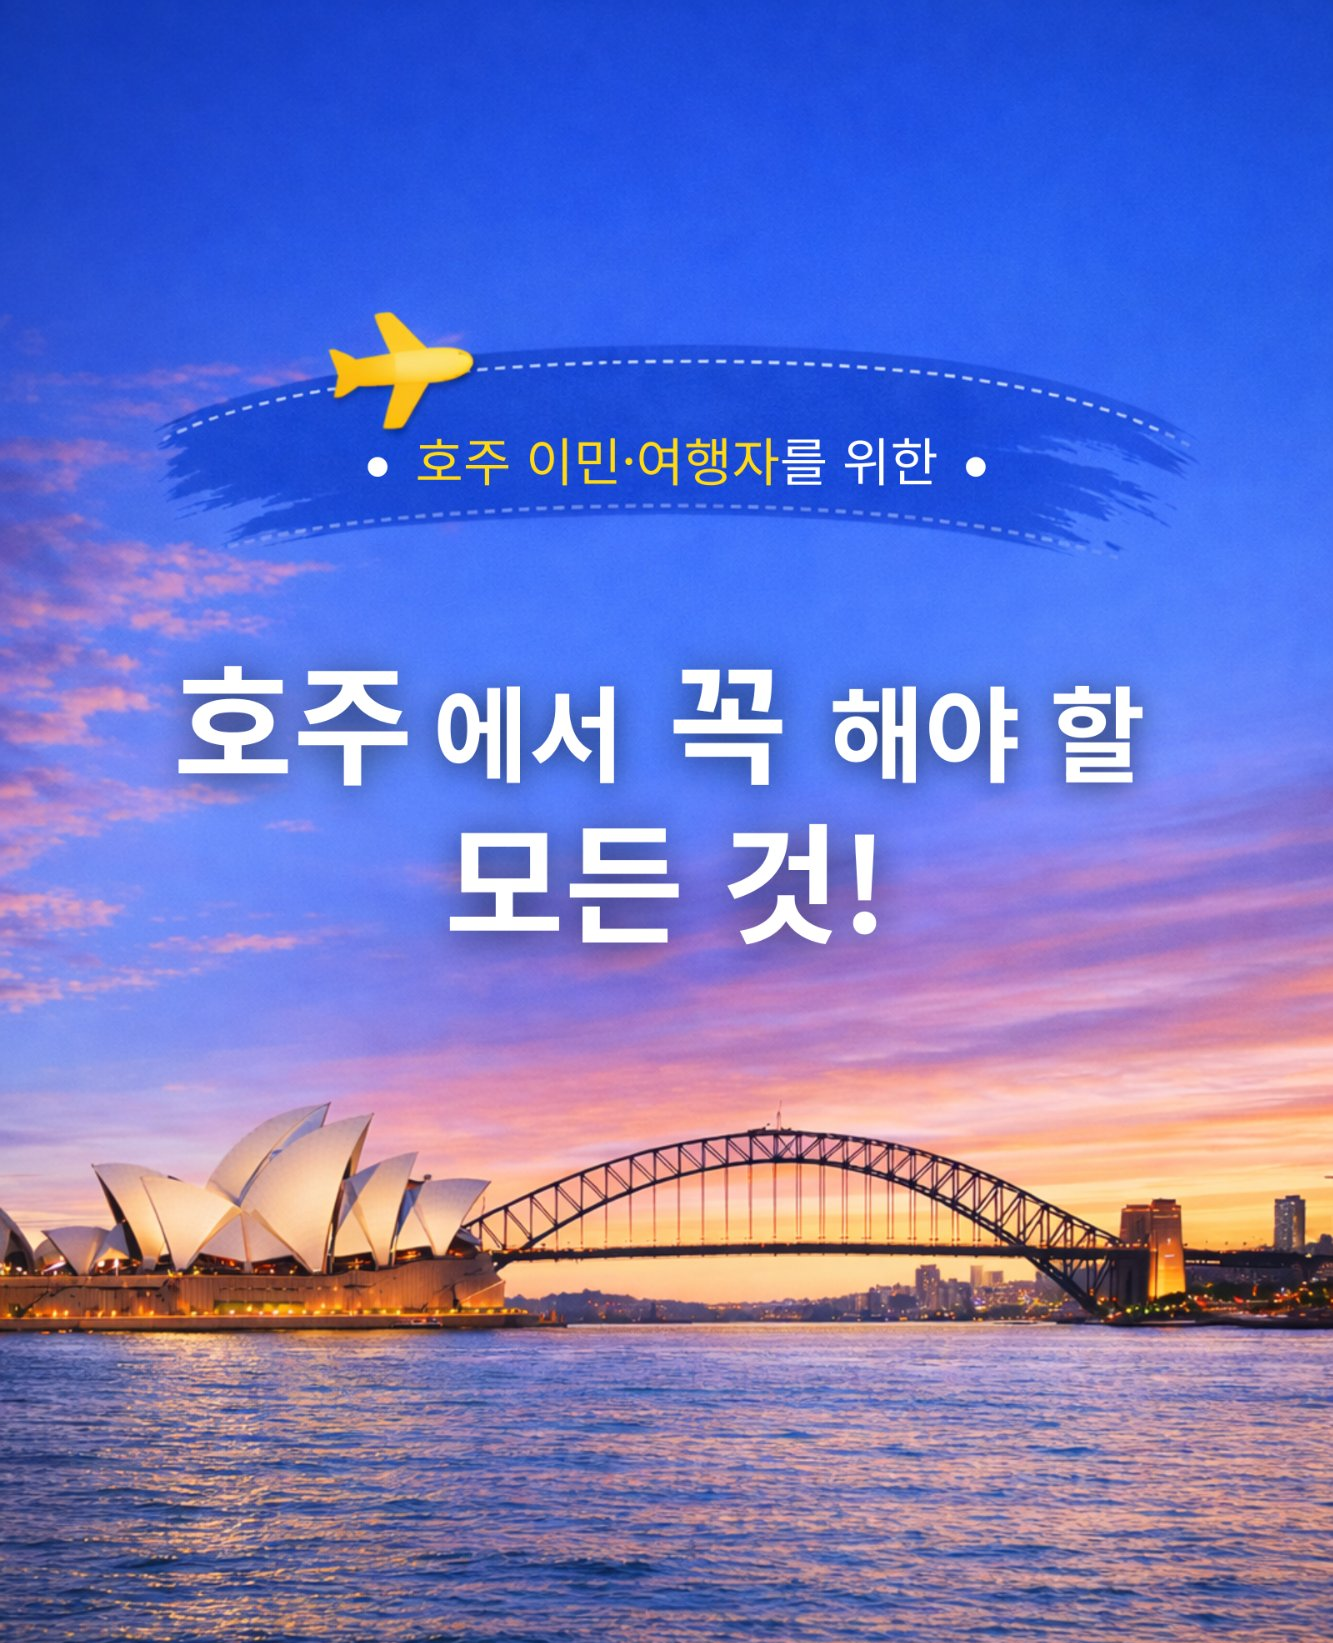
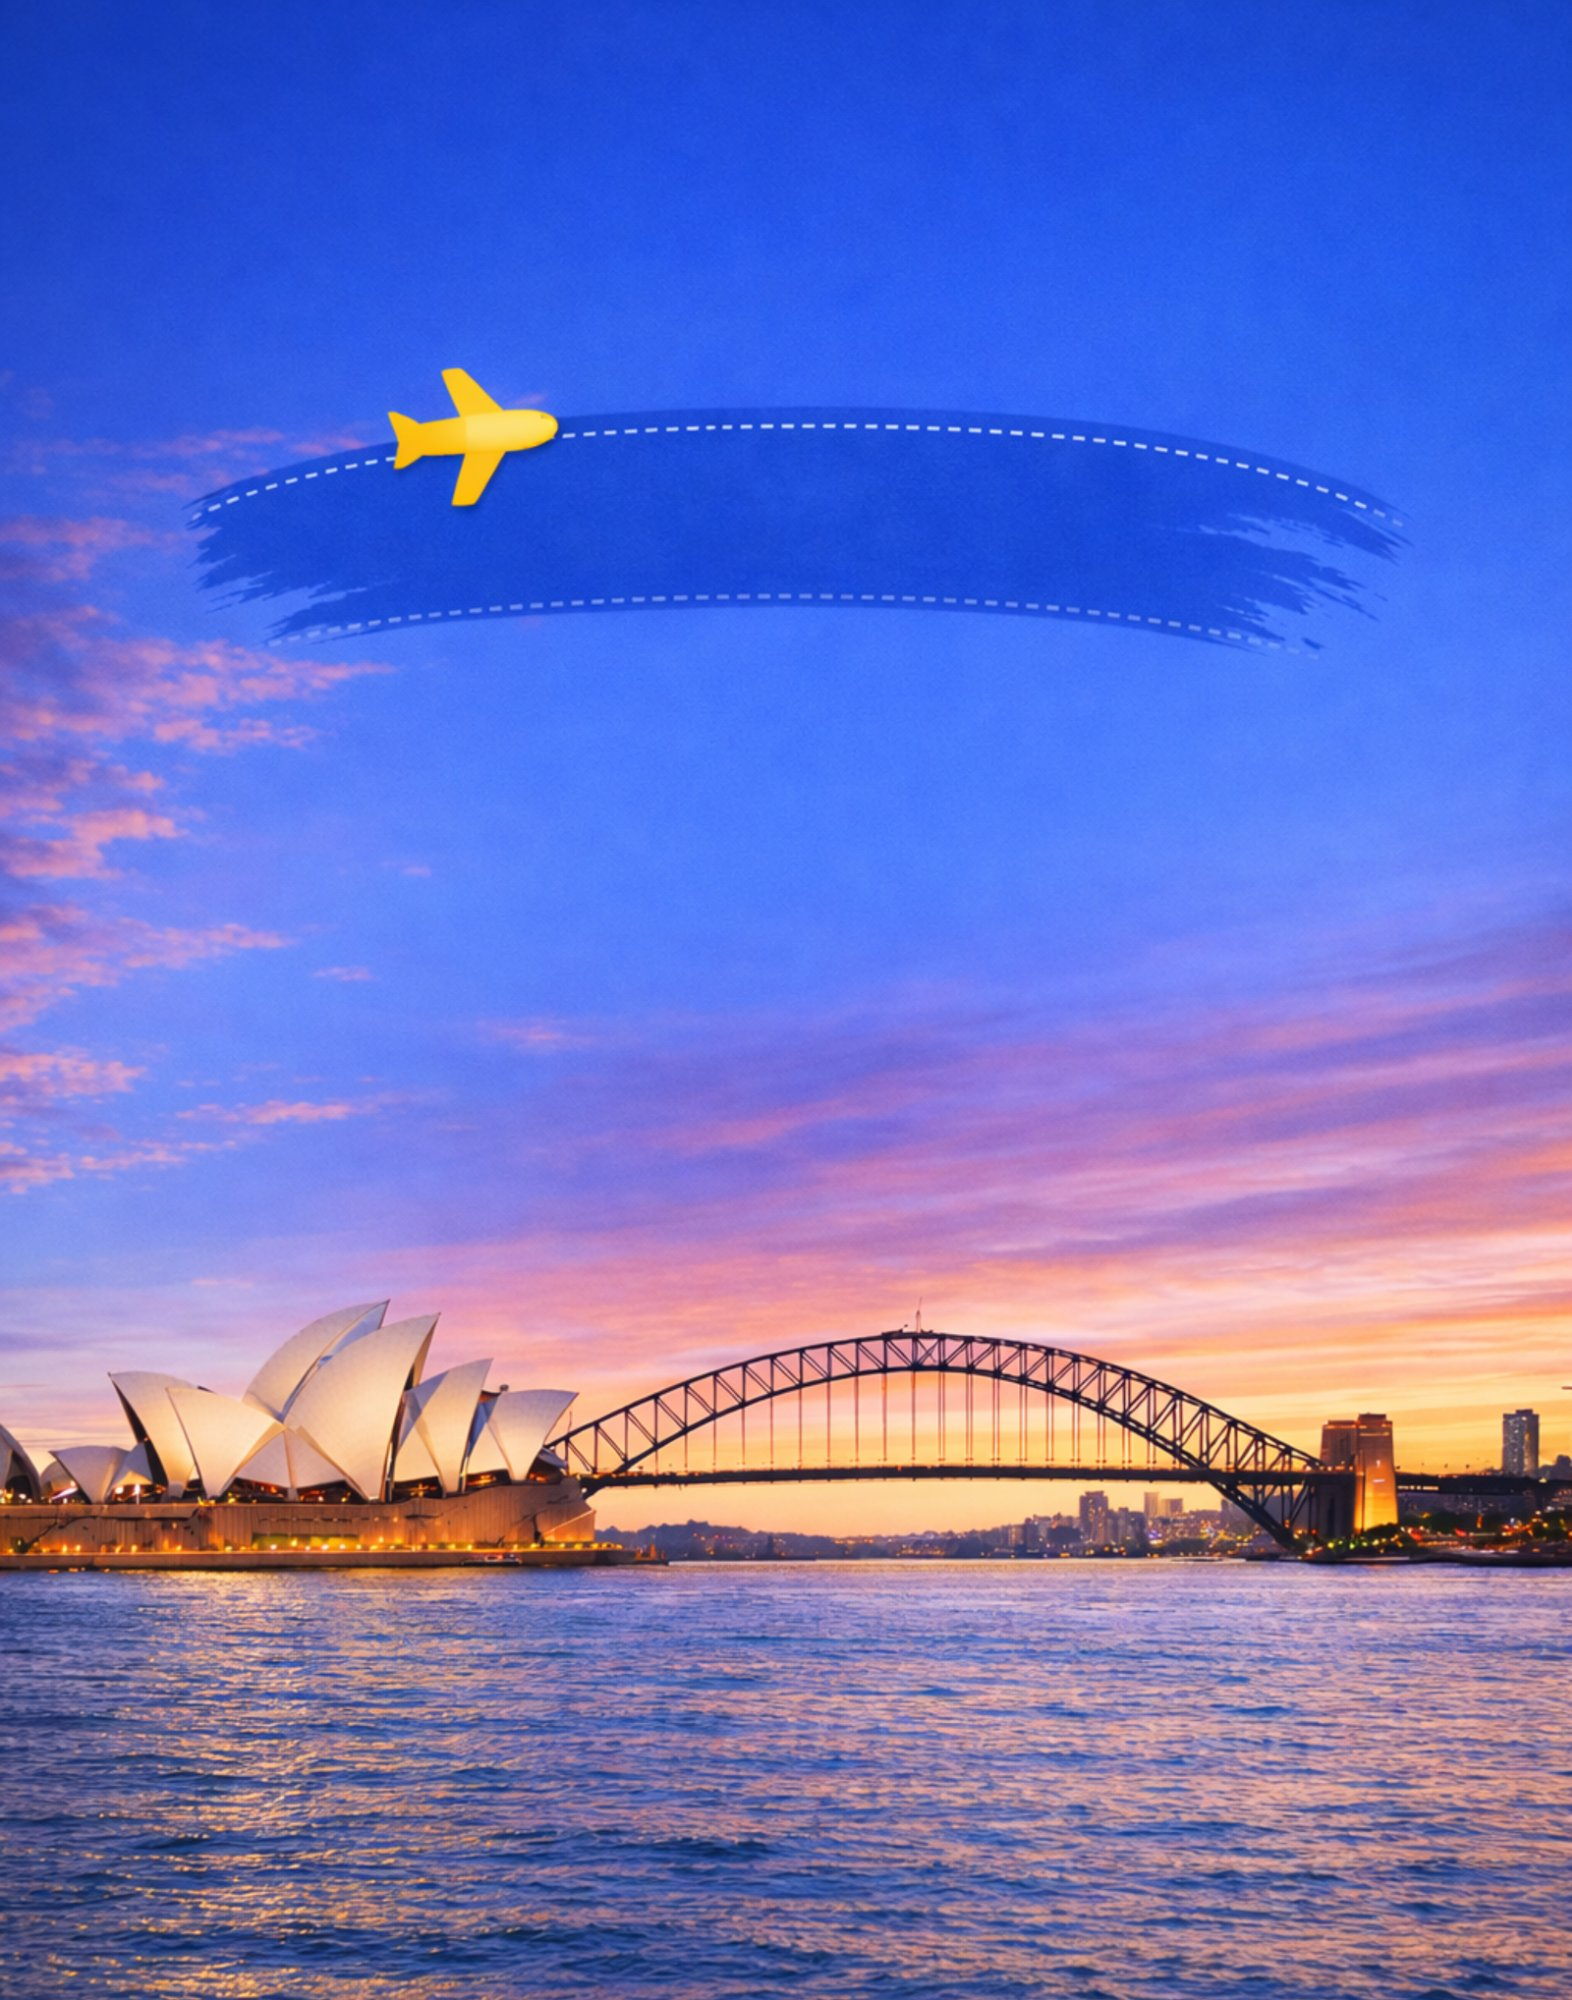
?섏젙 ?낅뜲?댄듃

diff --git a/src/pages/LandingPage.tsx b/src/pages/LandingPage.tsx
@@ -6,7 +6,7 @@ import { ITEMS, CATEGORIES } from '../data/checklist'
 import { CATEGORIES as BCATS, BUSINESSES } from '../data/businesses'
 
 // ── 이미지 import (src/assets/landing/ 폴더에 넣어주세요)
-import imgHero     from '../assets/landing/hero.png'
+import imgHero     from '../assets/landing/hero-clean.png'
 import imgCafe     from '../assets/landing/cafe-brunch.png'
 import imgFood     from '../assets/landing/food-korean-bbq.png'
 import imgShopping from '../assets/landing/shopping.png'
@@ -511,24 +511,24 @@ export default function LandingPage({ state, onStart, onServices }: Props) {
         .slider-wrap { scrollbar-width:none; }
       `}</style>
 
-      {/* ── 히어로 + 투명 헤더 ── */}
+      {/* ── 히어로 ── */}
       <div style={{ position:'relative', overflow:'hidden' }}>
 
         {/* 배경 이미지 */}
         <img
           src={imgHero}
-          alt="호주에서 꼭 해야 할 모든 것"
+          alt="시드니"
           style={{ width:'100%', display:'block', objectFit:'cover' }}
         />
 
-        {/* 투명 헤더 */}
+        {/* 상단 헤더 — 호주가자 + 개수 뱃지 */}
         <div style={{
           position:'absolute', top:0, left:0, right:0, zIndex:10,
           padding:'14px 24px',
           display:'flex', alignItems:'center', justifyContent:'space-between',
         }}>
           <div onClick={handleLogoTap} style={{ cursor:'pointer', userSelect:'none' as any }}>
-            <span style={{ fontSize:18, fontWeight:900, color:'#fff', letterSpacing:-0.5, textShadow:'0 1px 8px rgba(0,0,0,0.40)' }}>호주가자</span>
+            <span style={{ fontSize:19, fontWeight:900, color:'#fff', letterSpacing:-0.5, textShadow:'0 1px 8px rgba(0,0,0,0.40)' }}>호주가자</span>
           </div>
           <div style={{
             display:'flex', gap:8,
@@ -548,21 +548,60 @@ export default function LandingPage({ state, onStart, onServices }: Props) {
           </div>
         </div>
 
-        {/* 문구 — 이미지 중간쯤 */}
+        {/* 파란 배너 위 텍스트 — "호주 이민·여행자를 위한" */}
+        <div style={{
+          position:'absolute', top:'18%', left:0, right:0,
+          textAlign:'center', zIndex:10,
+          padding:'0 20px',
+        }}>
+          <p style={{
+            margin:0, fontSize:14, fontWeight:700,
+            letterSpacing:0.5,
+            textShadow:'0 1px 4px rgba(0,0,0,0.20)',
+          }}>
+            <span style={{ color: GOLD }}>호주 이민·여행자</span>
+            <span style={{ color:'#fff' }}>를 위한</span>
+          </p>
+        </div>
+
+        {/* 메인 타이틀 — 호주에서 꼭 해야 할 / 모든 것! */}
+        <div style={{
+          position:'absolute', top:'32%', left:0, right:0,
+          textAlign:'center', zIndex:10,
+          padding:'0 16px',
+        }}>
+          <div style={{
+            fontFamily:'"Gaegu", "Pretendard", sans-serif',
+            color:'#fff',
+            lineHeight:1.15,
+            textShadow:'0 2px 12px rgba(0,0,20,0.30)',
+          }}>
+            {/* 첫 줄 — 작게 */}
+            <div style={{ fontSize:32, fontWeight:700, letterSpacing:-0.5 }}>
+              호주에서 꼭 해야 할
+            </div>
+            {/* 둘째 줄 — 크게 */}
+            <div style={{ fontSize:48, fontWeight:900, letterSpacing:-1, marginTop:2 }}>
+              모든 것!
+            </div>
+          </div>
+        </div>
+
+        {/* 서브 문구 */}
         <div style={{
           position:'absolute', top:'62%', left:0, right:0,
           textAlign:'center', zIndex:10,
         }}>
           <p style={{
-            fontSize:13, color:'rgba(255,255,255,0.95)',
+            fontSize:13, color:'rgba(255,255,255,0.92)',
             margin:0, lineHeight:1.6,
-            textShadow:'0 1px 4px rgba(0,0,0,0.30)',
+            textShadow:'0 1px 4px rgba(0,0,0,0.25)',
           }}>
             가고 싶은 곳, 먹고 싶은 것, 지금 체크하세요
           </p>
         </div>
 
-        {/* 하단 버튼 */}
+        {/* 하단 버튼 2개 */}
         <div style={{
           position:'absolute', bottom:0, left:0, right:0,
           padding:'0 24px 24px',
@@ -573,7 +612,7 @@ export default function LandingPage({ state, onStart, onServices }: Props) {
             flex:2, height:50, background:GOLD, color:'#002870',
             border:'none', borderRadius:14, fontSize:14, fontWeight:900,
             cursor:'pointer', display:'flex', alignItems:'center', justifyContent:'center', gap:6,
-            boxShadow:`0 4px 20px rgba(255,184,0,0.50)`,
+            boxShadow:`0 4px 20px rgba(255,184,0,0.55)`,
           }}>
             <Icon icon="ph:list-checks" width={16} height={16} color="#002870" />
             나의 버킷리스트
